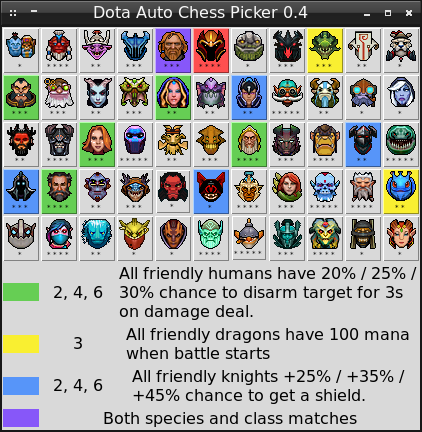
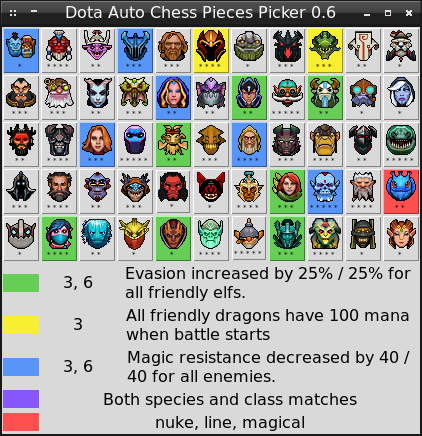
Release 0.6

diff --git a/pieces-picker.py b/pieces-picker.py
@@ -4,7 +4,7 @@ from Tkinter import *
 from csv import reader
 from PIL import ImageTk,Image
 
-_VERSION = "0.5"
+_VERSION = "0.6"
 _PIECES_FILE = "database/csv/pieces.csv"
 _SPECIES_FILE = "database/csv/species.csv"
 _CLASSES_FILE = "database/csv/classes.csv"

diff --git a/combos-picker.py b/combos-picker.py
@@ -4,7 +4,7 @@ from Tkinter import *
 from csv import reader
 from PIL import ImageTk,Image
 
-_VERSION = "0.5"
+_VERSION = "0.6"
 _PIECES_FILE = "database/csv/pieces.csv"
 _COMBOS_FILE = "database/csv/combos.csv"
 

diff --git a/items-picker.py b/items-picker.py
@@ -4,7 +4,7 @@ from Tkinter import *
 from csv import reader
 from PIL import ImageTk,Image
 
-_VERSION = "0.5"
+_VERSION = "0.6"
 _ITEMS_FILE = "database/csv/items.csv"
 
 _DEFAULT_COLOR = "#d9d9d9"

diff --git a/README.md b/README.md
@@ -1,4 +1,4 @@
-# Dota Auto Chess Picker 0.5 version
+# Dota Auto Chess Picker 0.6 version
 
 Dota Auto Chess Picker is a utility to check combinations of pieces and items for the [Dota Auto Chess](https://steamcommunity.com/sharedfiles/filedetails/?id=1613886175) custom game.
 
@@ -48,6 +48,8 @@ The `pieces-picker.py` script shows you all combinations of the pieces depending
 ![Pieces Picker](images/readme/pieces-picker-window.png)
 
 Start the `pieces-picker.py` script and click on the piece icon. The green color will highlight all pieces of the same species. If the piece has second species, then corresponding pieces will be highlighted by the yellow color. Blue color highlights the pieces with the same class. Purple color matches the pieces with the same species and class.
+
+You will see a brief description of the piece's skill near the red box.
 
 Stars under each piece icon show its cost.
 

diff --git a/CHANGELOG.md b/CHANGELOG.md
@@ -1,3 +1,6 @@
+* version 0.6
+  - Add the description of the pieces skills.
+
 * version 0.5
   - Add the combos-poicker.py script.
 
